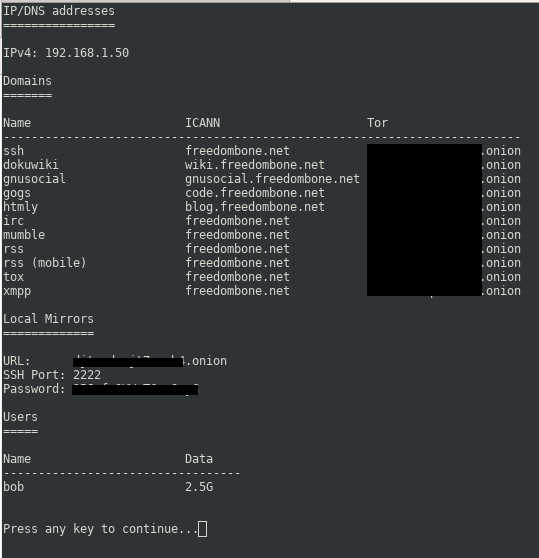
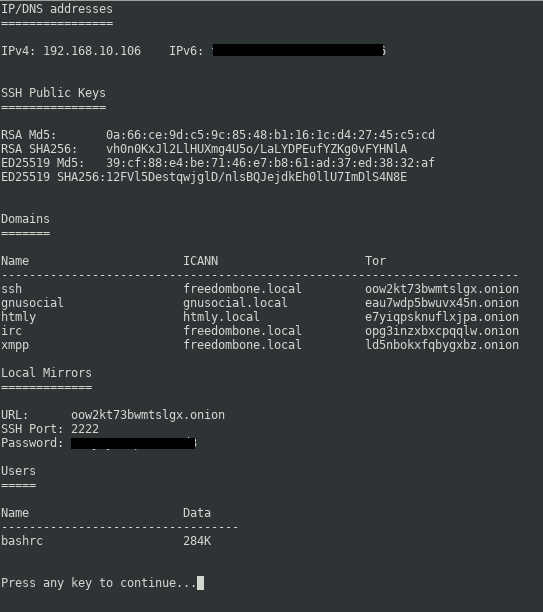
Update images for home server install

Changed region(s): [[0.0, 0.0, 1.0, 1.0], [0.2968, 0.0609, 0.7124, 0.0914]]

diff --git a/website/EN/homeserver.html b/website/EN/homeserver.html
@@ -3,7 +3,7 @@
 "http://www.w3.org/TR/xhtml1/DTD/xhtml1-strict.dtd">
 <html xmlns="http://www.w3.org/1999/xhtml" lang="en" xml:lang="en">
 <head>
-<!-- 2016-11-23 Wed 18:01 -->
+<!-- 2016-11-23 Wed 18:11 -->
 <meta http-equiv="Content-Type" content="text/html;charset=utf-8" />
 <meta name="viewport" content="width=device-width, initial-scale=1" />
 <title></title>
@@ -384,7 +384,19 @@ When it's installed on your local system open a terminal and verify the ssh serv
 </div>
 
 <p>
-This will show the hash code for the public ssh key of the Freedombone system. Open another terminal window then run:
+This will show the hash code for the public ssh key of the Freedombone system.
+</p>
+
+<div class="org-center">
+
+<div class="figure">
+<p><img src="images/ssh_key_verify.jpg" alt="ssh_key_verify.jpg" />
+</p>
+</div>
+</div>
+
+<p>
+Open another terminal window then run:
 </p>
 
 <div class="org-src-container">
